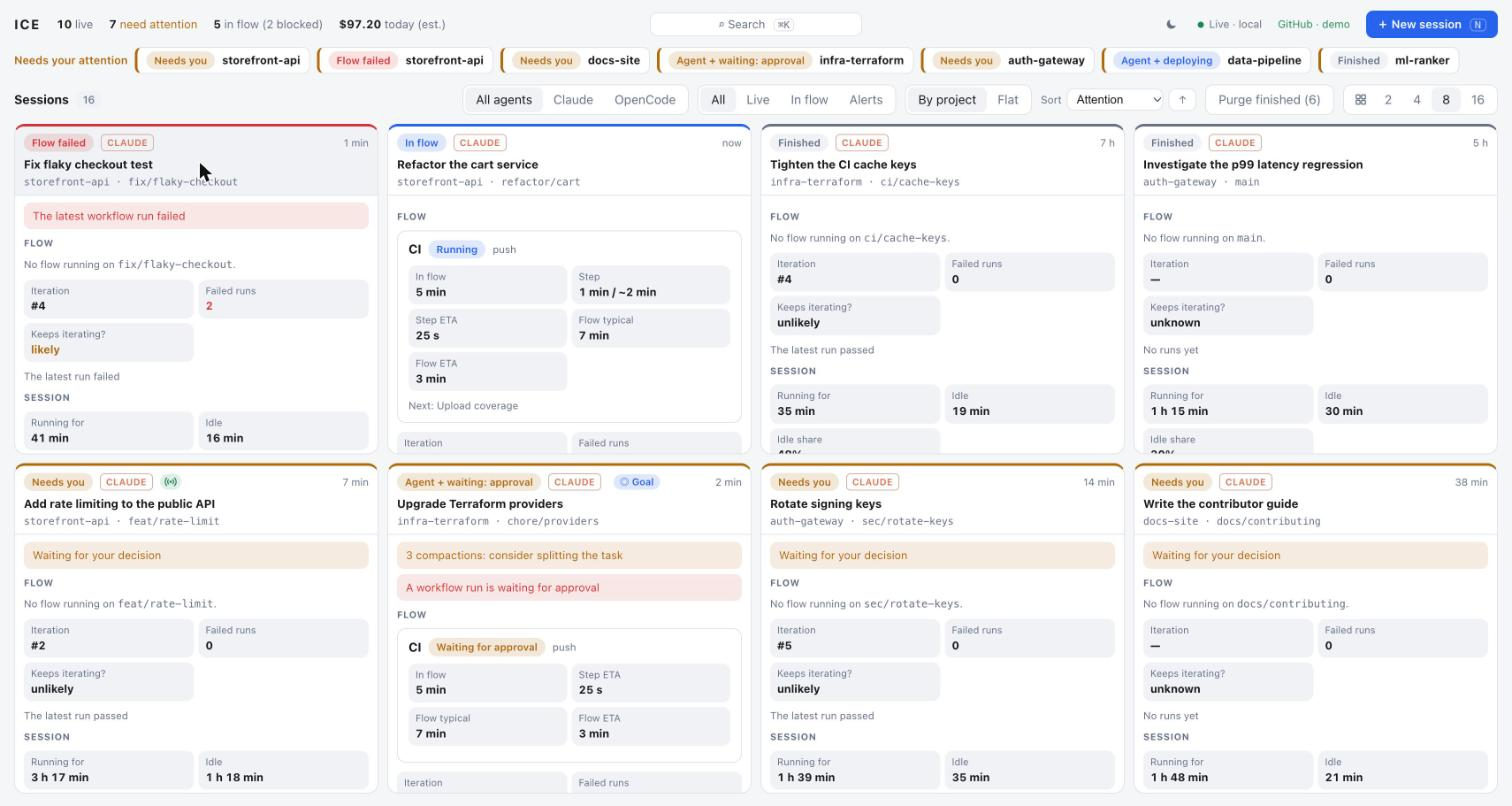
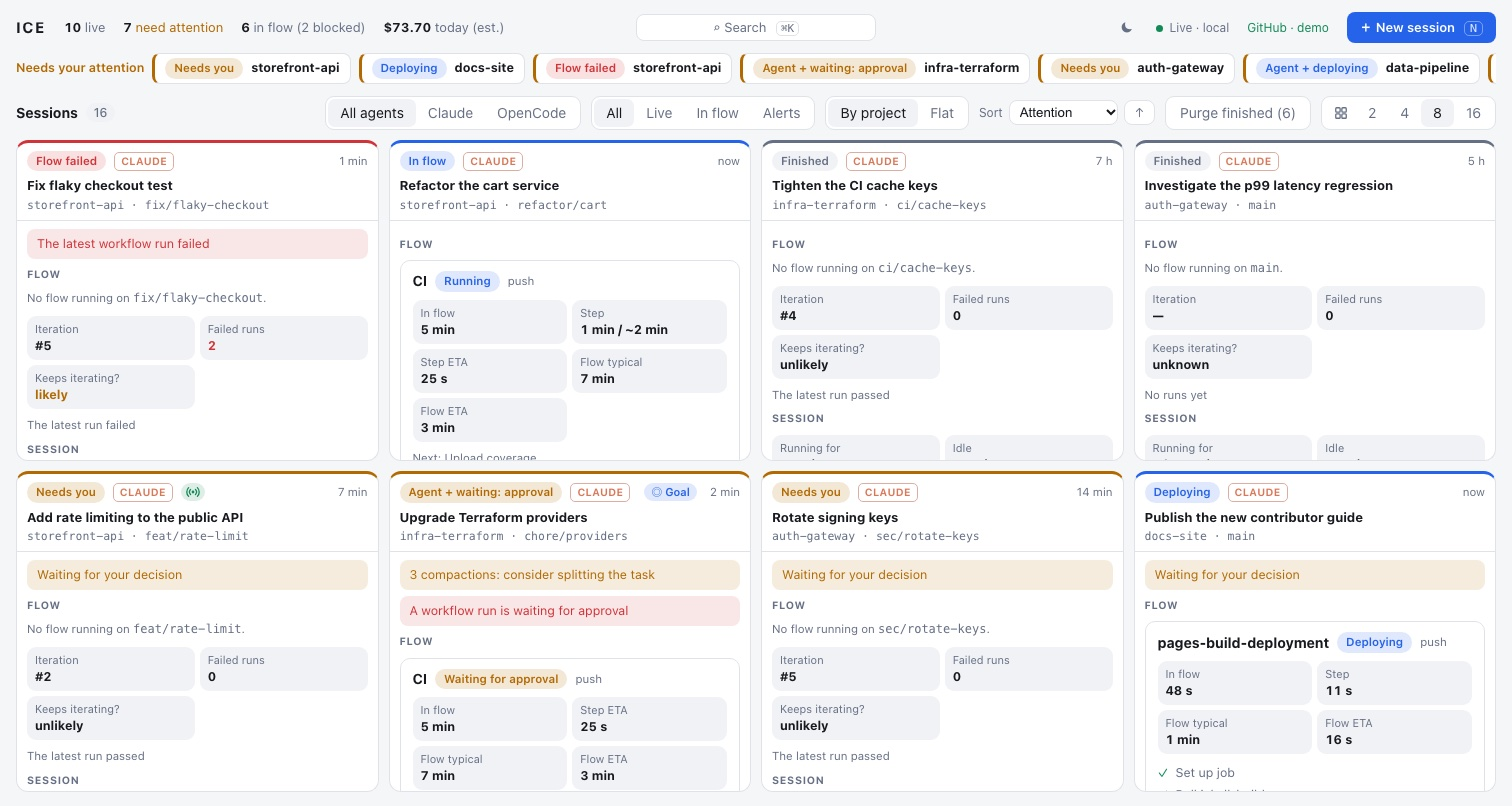
El nuevo IDE: captura de ICE con un flujo desplegando

diff --git a/_posts/es/2026/2026-11-03-el-nuevo-ide.md b/_posts/es/2026/2026-11-03-el-nuevo-ide.md
@@ -71,7 +71,7 @@ Fíjate en lo que no aparece en la lista: escribir código. El editor no desapar
 
 Lo bueno de tener claro lo que falta es que se puede empezar a construir. En PlainConcepts hemos publicado como proyecto de código abierto una primera versión: [**ICE**](https://github.com/PlainConceptsPlatform/ice), *Integrated Control Environment*. Es una interfaz web local para supervisar y dirigir sesiones de Claude Code y de OpenCode. No es un editor ni pretende serlo: sustituye al IDE como sitio de trabajo. No escribe el código, de eso se encargan tus agentes; es la consola desde la que supervisas muchas sesiones de muchos proyectos.
 
-![Muro de sesiones de ICE con ocho celdas por pantalla, cada una con su estado, alertas, flujo de CI, PRs, tokens, coste y actividad de las últimas ocho horas.](/img/el-nuevo-ide/ice-wall.jpg)
+![Muro de sesiones de ICE con ocho celdas por pantalla, cada una con su estado, alertas y flujo de CI, incluida una sesión con un flujo de despliegue en marcha (pages-build-deployment).](/img/el-nuevo-ide/ice-wall.jpg)
 
 *Captura del repositorio, en modo demo: todas las sesiones y proyectos son inventados.*
 
